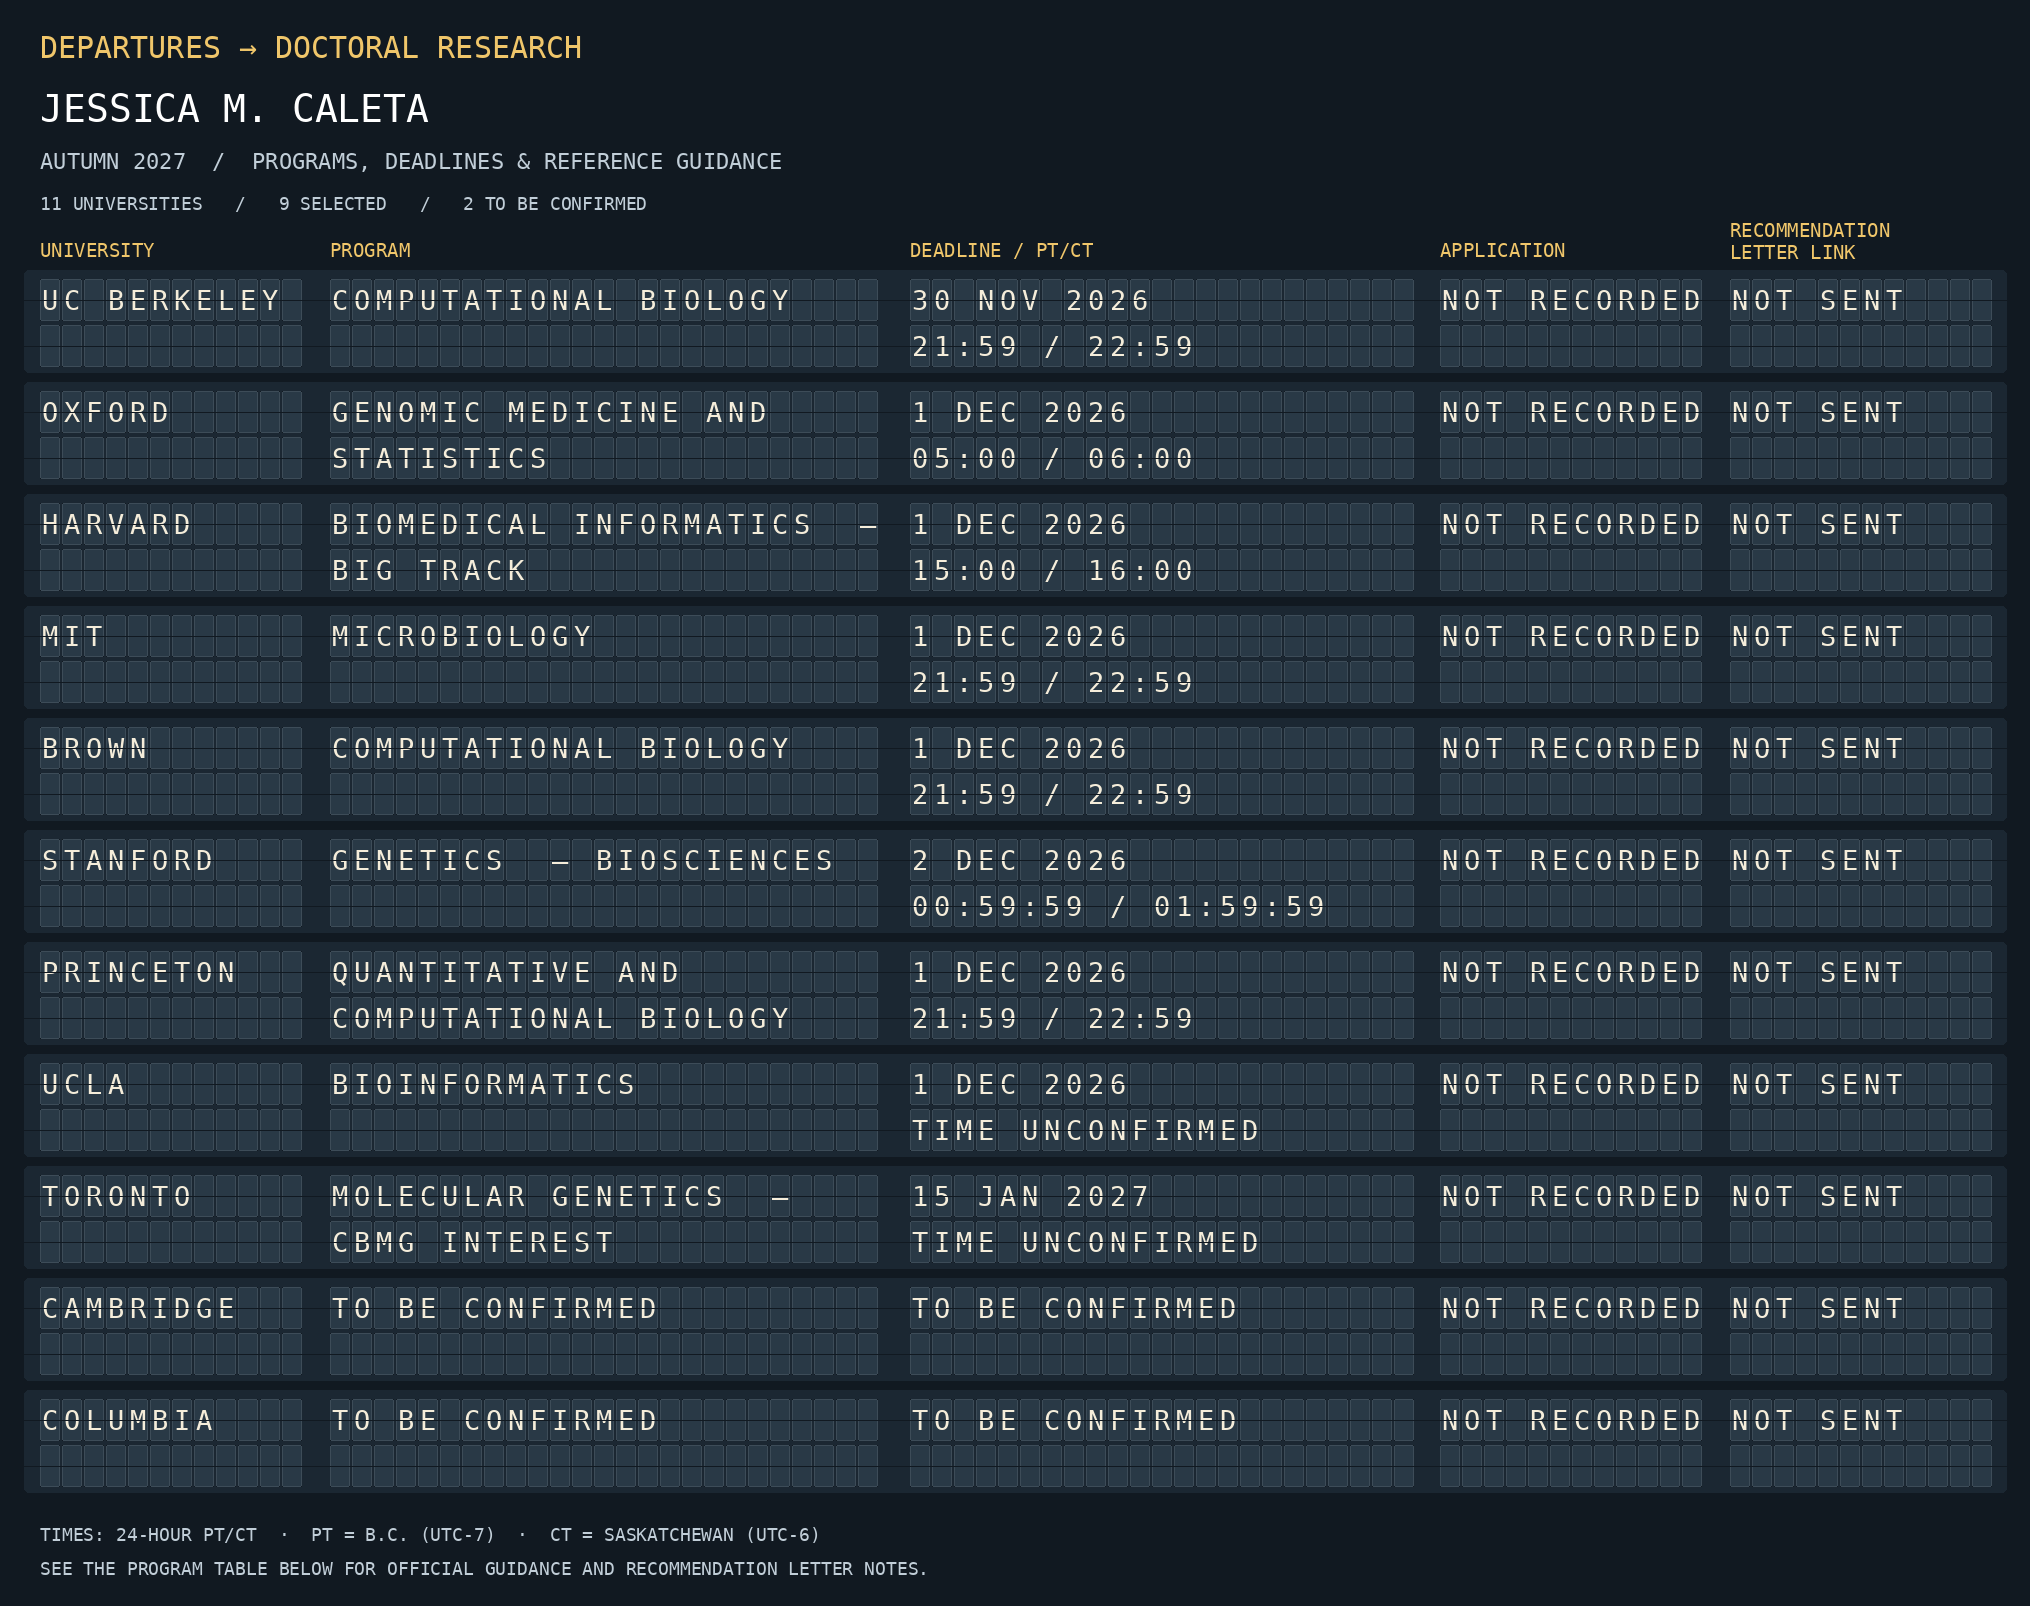
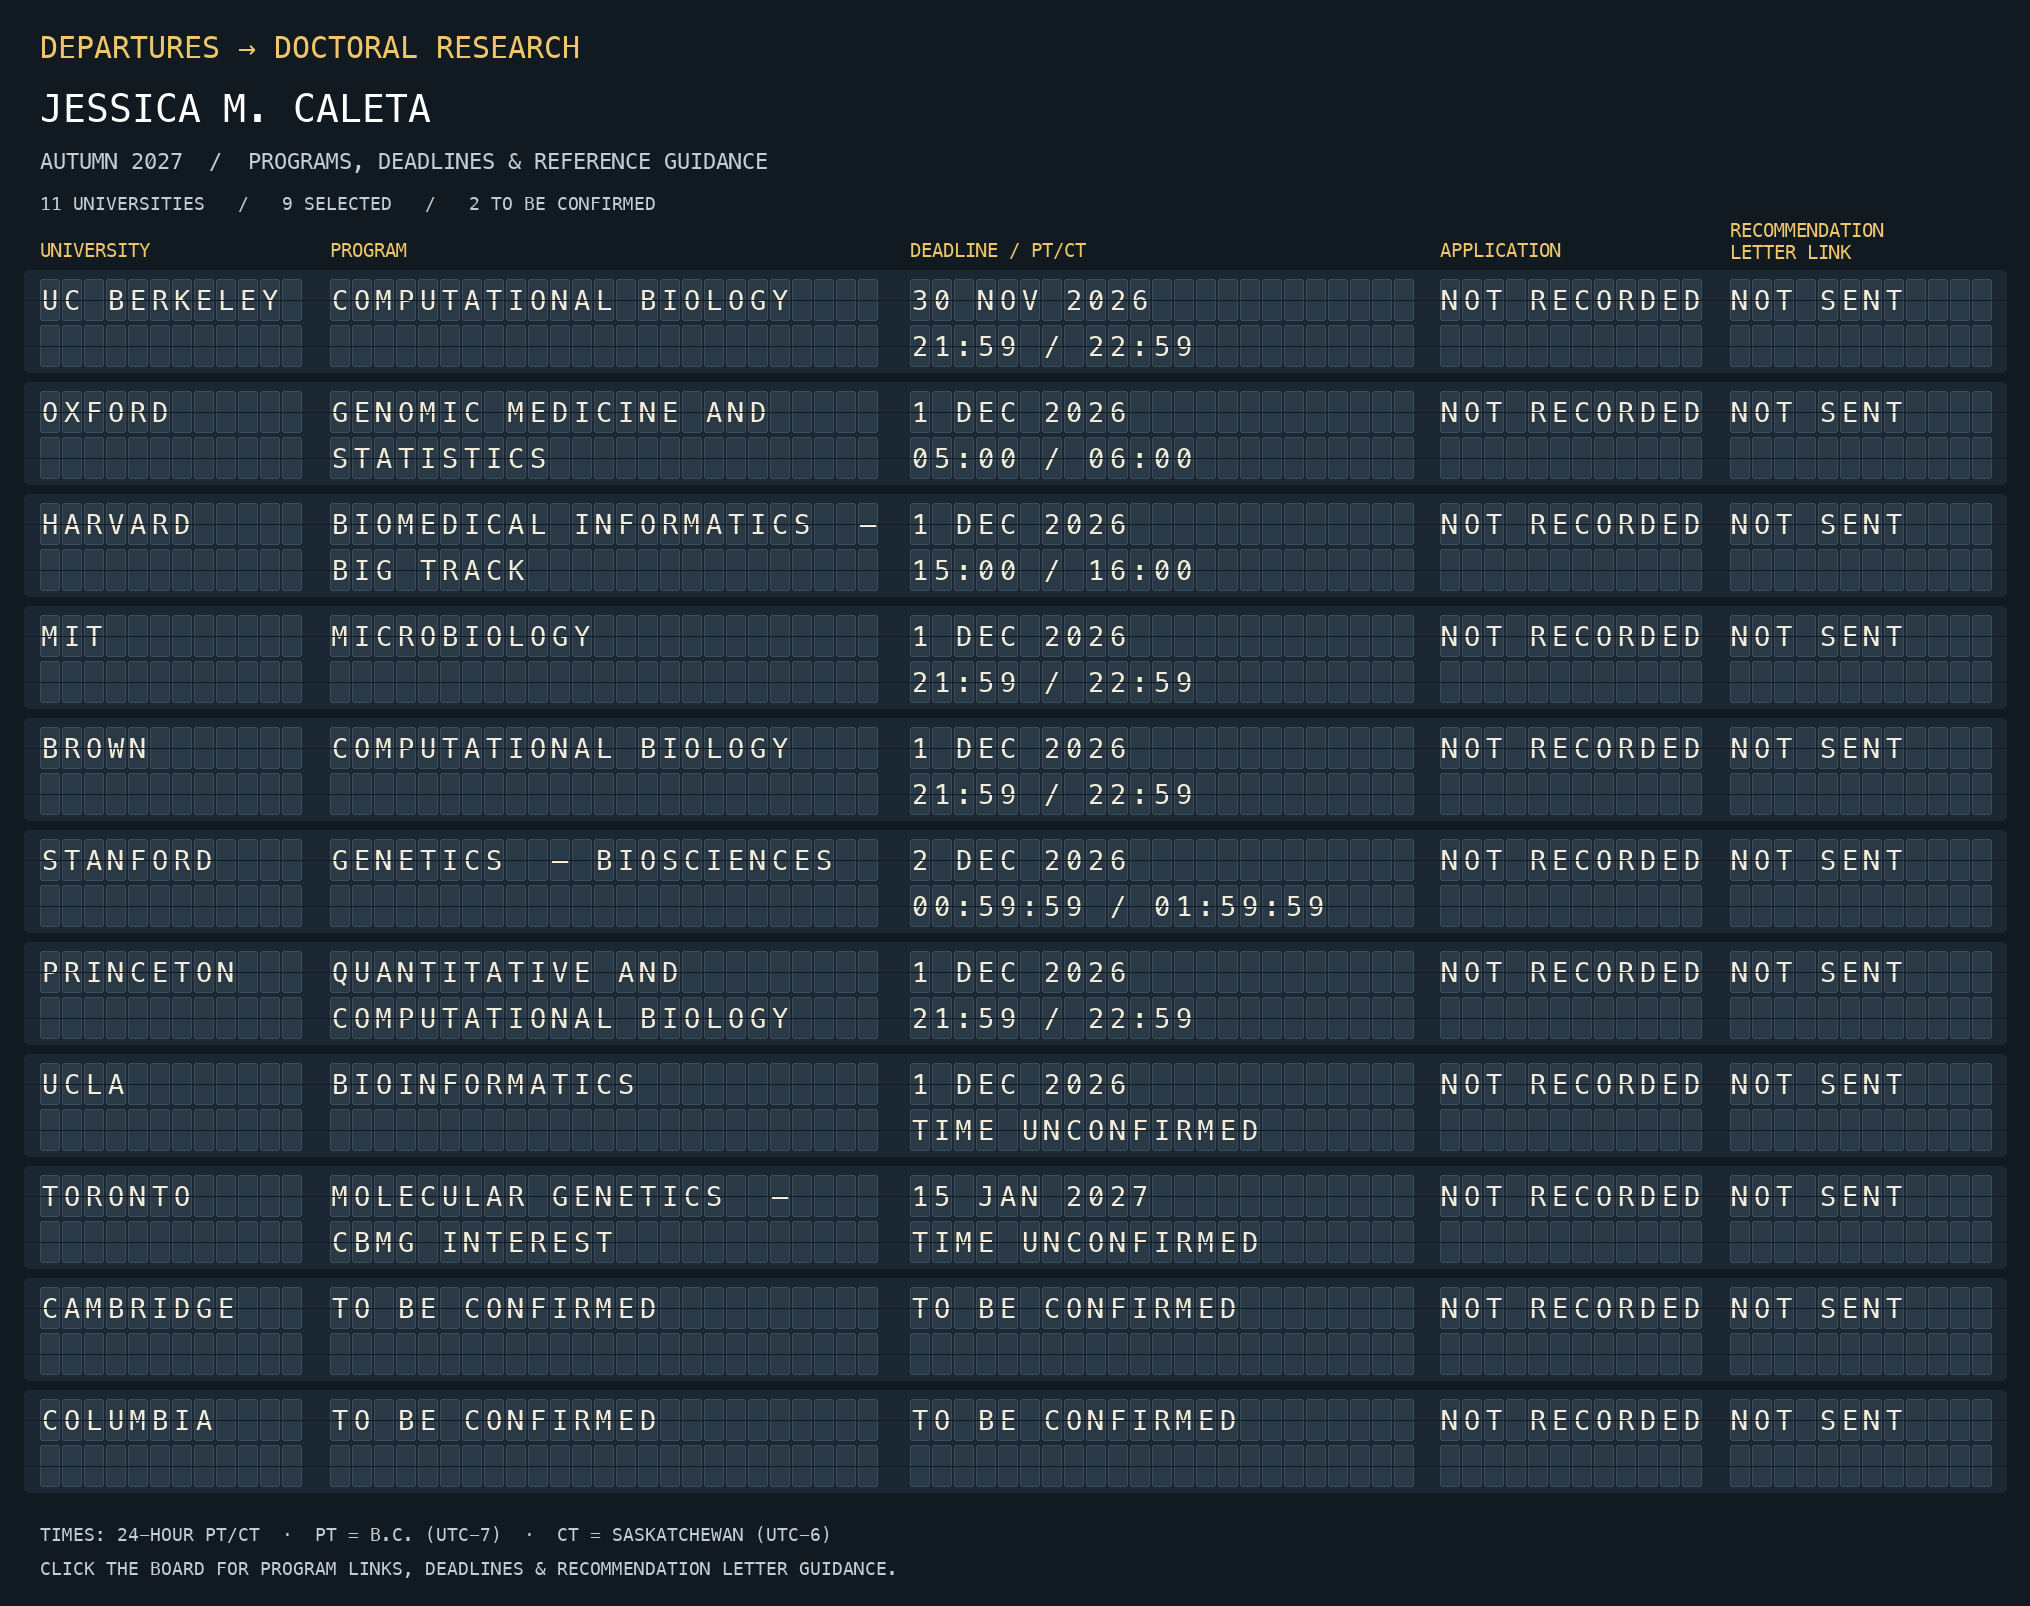
Use flight board as clear gateway to full Program Info guide

diff --git a/scripts/render_board.py b/scripts/render_board.py
@@ -1,4 +1,4 @@
-"""Sync the complete program guide while preserving README-only content."""
+"""Keep README navigation linked to the full guide; the table lives only in Program_Info.md."""
 from pathlib import Path
 import re
 ROOT=Path(__file__).resolve().parents[1]
@@ -22,23 +22,8 @@ first_break=readme.index('\n\n')
 board_line=next(line for line in readme.splitlines() if 'assets/application-board.gif' in line)
 board_at=readme.index(board_line)
 readme=readme[:first_break+2]+nav+'\n'+readme[board_at:]
-# Program_Info.md owns the entire guide, including text before and after its table.
-lines=info.splitlines()
-assert lines[0].startswith('# '), "Expected a title in Program_Info.md"
-lines[0]='## Programs, deadlines & recommendation letters'
-start=next(i for i,line in enumerate(lines) if line.startswith('| University'))
-end=start
-while end<len(lines) and lines[end].startswith('|'):end+=1
-table=['| University | Program | Deadline | Recommendation letter guidelines | Application status | Recommendation letter link | Notes |',
-       '| --- | --- | --- | --- | --- | --- | --- |']
-for university,program,deadline,guidance,status,link_status,note in rows:
-    note='' if note in ('—','') else note
-    table.append('| '+' | '.join([f'**{university}**',program,deadline,guidance,status,link_status,note])+' |')
-lines[start:end]=table
-guide='\n'.join(lines).strip()
-section_start=readme.index('## Programs, deadlines & recommendation letters')
-section_end=readme.index('<details>',section_start)
-assert '<summary>Updating the board</summary>' in readme[section_end:]
-readme=readme[:section_start]+guide+'\n\n'+readme[section_end:]
+# Keep the board link working even if a visual editor flattens its Markdown wrapper.
+linked_board='[![Click the flight board to open Program Info: program links, deadlines, and recommendation-letter guidance](assets/application-board.gif)](Program_Info.md)'
+readme=readme.replace(board_line,linked_board,1)
 readme_path.write_text(readme,encoding='utf-8')
-print(f'Restored three linked signs and refreshed {len(rows)} program rows; complete guide synced; README-only content preserved.')
+print(f'Restored navigation to Program Info; {len(rows)} programs remain in the source guide.')

diff --git a/scripts/render_animation.py b/scripts/render_animation.py
@@ -93,7 +93,7 @@ for i,(uni,program,deadline,guidance,status,links,notes) in enumerate(rows):
                 if ch!=' ':slots.append((pos,ch))
         groups[(i,kind)]=slots
 label(40,H-82,'TIMES: 24-HOUR PT/CT  ·  PT = B.C. (UTC-7)  ·  CT = SASKATCHEWAN (UTC-6)',18)
-label(40,H-48,'SEE THE PROGRAM TABLE BELOW FOR OFFICIAL GUIDANCE AND RECOMMENDATION LETTER NOTES.',18)
+label(40,H-48,'CLICK THE BOARD FOR PROGRAM LINKS, DEADLINES & RECOMMENDATION LETTER GUIDANCE.',18)
 base.save(ROOT/'assets/application-board-still.png')
 palette=base.quantize(colors=128)
 def quant(im):return im.quantize(palette=palette,dither=Image.Dither.NONE)

diff --git a/README.md b/README.md
@@ -6,44 +6,17 @@
 <a href="Program_Info.md"><img src="assets/program-guide-sign.png" alt="Program guide — deadlines and references" width="32%"></a>
 </p>
 
-[![PhD application board — click to jump to linked programs and guidance](assets/application-board.gif)](#programs-deadlines--recommendation-letters)
+[![Click the flight board to open Program Info: program links, deadlines, and recommendation-letter guidance](assets/application-board.gif)](Program_Info.md)
 
-Welcome, and thank you for supporting my autumn 2027 PhD applications. This page is the central reference for my program choices, deadlines, and application progress. The table below links to the best official recommendation-letter guidance available; applicant-facing pages are labeled. Application status does not indicate whether a recommendation letter has been submitted. 
+**[Click the flight board to open the full program table, clickable university links, deadlines, and recommendation-letter guidance →](Program_Info.md)**
 
-## Programs, deadlines & recommendation letters
-
-Jessica M. Caleta · Autumn 2027 entry · Updated 28 October 2026
-
-
-| University | Program | Deadline | Recommendation letter guidelines | Application status | Recommendation letter link | Notes |
-| --- | --- | --- | --- | --- | --- | --- |
-| **UC Berkeley** | [Computational Biology PhD](https://ccb.berkeley.edu/academics/computational-biology-phd) | 30 Nov 2026<br>9:59 p.m. PT / 10:59 p.m. CT | [General letter-writing guidance (referee-facing)](https://gsi.berkeley.edu/gsi-guide-contents/fostering-your-professional-development/writing-letters-of-recommendation/) · [Computational Biology letter criteria (applicant-facing)](https://ccb.berkeley.edu/academics/computational-biology-phd/application-tips) | Not recorded | Not sent | [Late letters are accepted, but review may proceed without them](https://ccb.berkeley.edu/academics/computational-biology-phd/phd-admissions). |
-| **Oxford** | [DPhil in Genomic Medicine and Statistics](https://www.ox.ac.uk/admissions/graduate/courses/dphil-genomic-medicine-and-statistics) | 1 Dec 2026<br>5 a.m. PT / 6 a.m. CT | [Official instructions (referee-facing)](https://www.ox.ac.uk/admissions/graduate/application-guide/references/information-for-referees) | Not recorded | Not sent |  |
-| **Harvard** | [Biomedical Informatics PhD — BIG track](https://bmiphd.hms.harvard.edu/welcome-big) | 1 Dec 2026<br>3 p.m. PT / 4 p.m. CT | [GSAS letter requirements (applicant-facing)](https://gsas.harvard.edu/apply/applying-degree-programs/letters-recommendation) | Not recorded | Not sent |  |
-| **MIT** | [Microbiology PhD](https://oge.mit.edu/programs/microbiology/) | 1 Dec 2026<br>9:59 p.m. PT / 10:59 p.m. CT | [Microbiology letter requirements (applicant-facing)](https://microbiology.mit.edu/graduate-program/how-to-apply/) | Not recorded | Not sent |  |
-| **Brown** | [Computational Biology PhD](https://graduateprograms.brown.edu/graduate-program/computational-biology-phd) | 1 Dec 2026<br>9:59 p.m. PT / 10:59 p.m. CT | [Computational Biology letter criteria (applicant-facing)](https://ccmb.brown.edu/academics/graduate-program/application-information) | Not recorded | Not sent |  |
-| **Stanford** | [Genetics PhD — Biosciences](https://med.stanford.edu/genetics/education.html) | 2 Dec 2026<br>12:59:59 a.m. PT / 1:59:59 a.m. CT | [Recommendation form and letter prompt (applicant-facing)](https://gradadmissions.stanford.edu/apply/recommendations) | Not recorded | Not sent |  |
-| **Princeton** | [Quantitative and Computational Biology PhD](https://gradschool.princeton.edu/academics/degrees-requirements/fields-study/quantitative-and-computational-biology) | 1 Dec 2026<br>9:59 p.m. PT / 10:59 p.m. CT | [Graduate School letter requirements (applicant-facing)](https://gradschool.princeton.edu/admission-onboarding/prepare/letters-recommendation) | Not recorded | Not sent |  |
-| **UCLA** | [Bioinformatics PhD](https://grad.ucla.edu/programs/life-sciences/bioinformatics-department/bioinformatics/) | 1 Dec 2026 — time not published/verified | [Bioscience recommender criteria (applicant-facing)](https://bioscience.ucla.edu/application-procedure/) | Not recorded | Not sent | [Letters may arrive later, but no exact separate cutoff is published](https://grad.ucla.edu/admissions/faqs/). |
-| **Toronto** | [Molecular Genetics PhD — CBMG interest](https://www.sgs.utoronto.ca/programs/molecular-genetics/) | 15 Jan 2027 — time not published/verified | [Molecular Genetics reference criteria (applicant-facing)](https://moleculargenetics.utoronto.ca/grad-application-procedures) | Not recorded | Not sent |  |
-| **Cambridge** | TBD | TBD — depends on program | [Official academic reference guidance (referee-facing)](https://www.postgraduate.study.cam.ac.uk/apply/how/academic-referees) | Not recorded | Not sent |  |
-| **Columbia** | TBD | TBD — depends on program | [GSAS recommendation requirements (applicant-facing)](https://www.gsas.columbia.edu/content/admissions-supporting-materials) | Not recorded | Not sent | [Letters should arrive by the program deadline, but GSAS allows up to two weeks afterward](https://www.gsas.columbia.edu/content/admissions-supporting-materials). |
-
-**Submitting letters:** Each university sends an individual submission link to each registered referee. Use that emailed link to upload the letter. The guidance links above are public instructions, not personal upload links.
-
-Cambridge and Columbia are included for planning only until their programs are finalized. This table is the source of truth for programs, deadlines, and application status. Jessica will update it centrally as applications progress.
-
-**Time zones:** B.C. now remains on UTC−7, so PT here differs from California’s winter PST (UTC−8). [B.C. time guidance](https://www2.gov.bc.ca/gov/content/governments/celebrating-british-columbia/daylight-saving-time) · [Saskatchewan time guidance](https://www.timeanddate.com/time/zone/canada/saskatchewan).
-
-**Application status:** Use “Not started”, “In progress”, “Submitted (date)”, “Withdrawn”, or “Not recorded”. Application submission and reference submission are separate actions.
-
-**Recommendation letter link:** Use only “Sent”, “Not sent”, or “Not recorded”. “Not recorded” means the invitation status has not been updated. If a row says “Sent” and your invitation is missing, please check spam and contact Jessica for a resend. This tracks invitation links, not completed letters.
+Welcome, and thank you for supporting my autumn 2027 PhD applications. This page is the central reference for my program choices, deadlines, and application progress. The Program Info table links to the best official recommendation-letter guidance available; applicant-facing pages are labeled. Application status does not indicate whether a recommendation letter has been submitted.
 
 <details>
 <summary>Updating the board</summary>
 
 Edit the **Application status** and **Recommendation letter link** columns in [Program_Info.md](Program_Info.md), then commit the change to `main`. For recommendation letter links, use only “Sent”, “Not sent”, or “Not recorded”. You can also update program choices, deadlines, and notes in the same file, including the date at the top.
 
-GitHub Actions refreshes this landing page and its board after each edit. To regenerate locally, run `uv run python scripts/render_board.py` followed by `uv run --with pillow python scripts/render_animation.py`. The full table preserves the exact status wording and all guidance links.
+GitHub Actions refreshes this landing page and its board after each edit. To regenerate locally, run `uv run python scripts/render_board.py` followed by `uv run --with pillow python scripts/render_animation.py`. The full table in Program Info preserves the exact status wording and all guidance links.
 
 </details>
